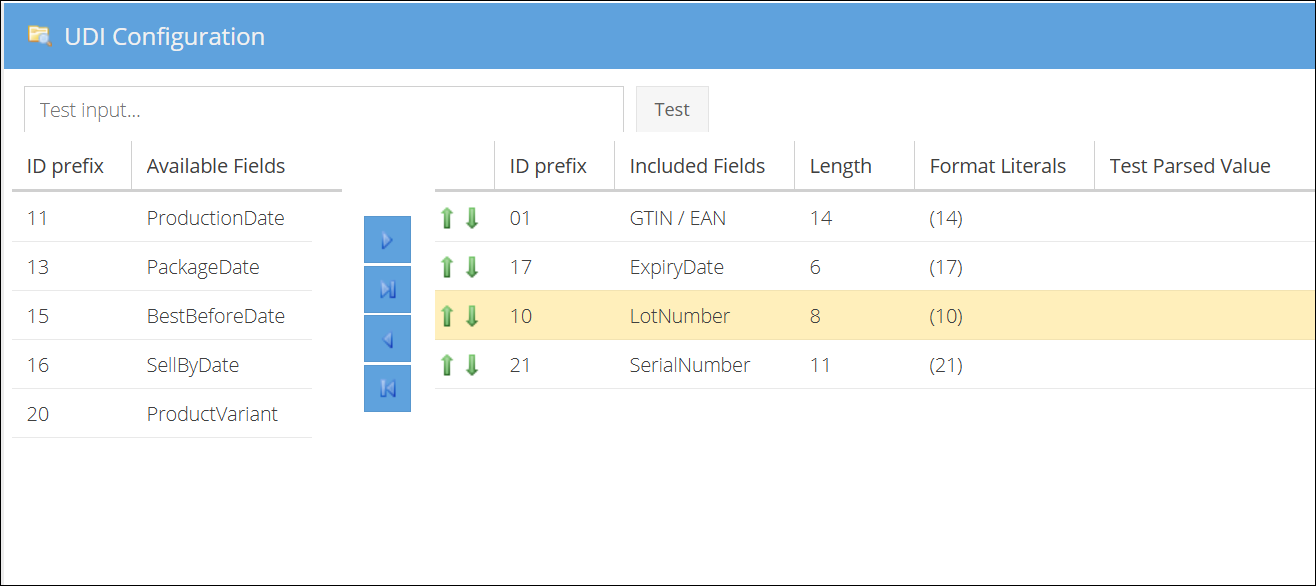
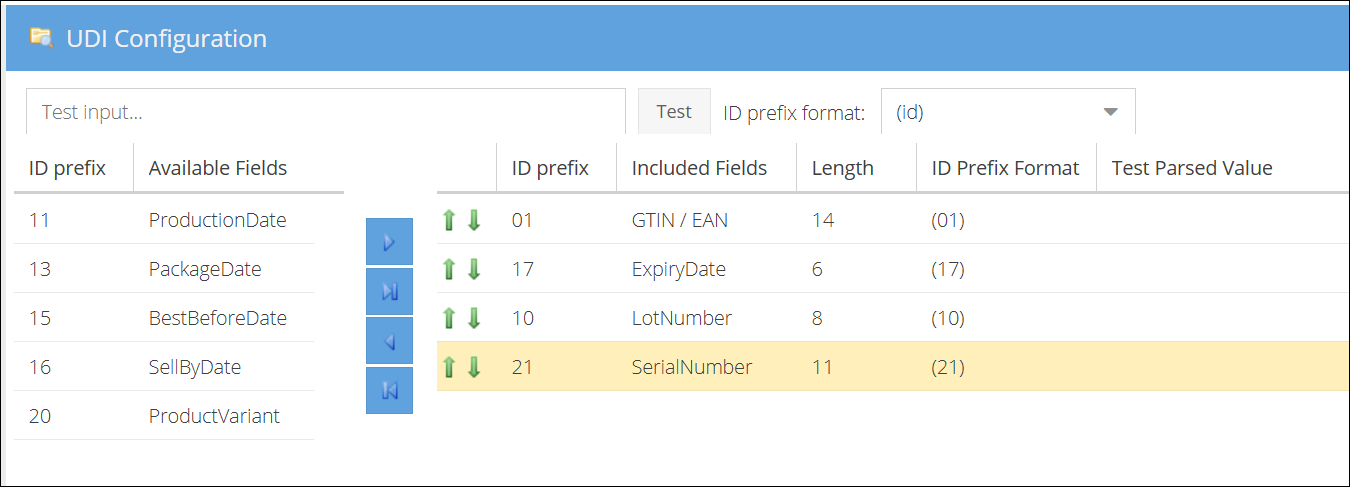
Purchase Price Import (with Tiers)

diff --git a/docs/User-Guide/09-Purchasing/Suppliers/new-way-import-supplier-prices.md b/docs/User-Guide/09-Purchasing/Suppliers/new-way-import-supplier-prices.md
@@ -1,76 +1,89 @@
 ---
 sidebar_position: 1
-slug: /docs/import-supplier-products
+slug: /docs/purchase-price-import-with-tiers
 ---
 
-# New easy way to Import Supplier Products 
+# Purchase Price Import (with Tiers)
 
-ShopCtrl added a new way to edit supplier purchase prices.
-It is done via excel product import. 
-The important difference is that it could be done for multiple products and suppliers at once.
-This type of import also supports update of tier-prices per supplier purchase prices.
+While ShopCtrl supports standard [product imports](import-supplier-products.md), this specific profile is designed for managing **Supplier Purchase Prices** and **Volume-Based Tier Pricing** in bulk.
 
-Profile could be created from the Product > Product export/import profiles.
+Unlike the more complex "Supplier Product Import," this method is designed for quick, manual price adjustments. 
 
-1. Log in as shopowner admin
-1. Go to Product > Product export/import profiles.
-1. Click Add to create new profile
-1. Select Profile type: Product Purchase Price
-1. Provide Profile name
-1. Select how many rows does the Header take - default 1.
-1. Select file Encoding
-1. Enter field separator - default `;`
-1. By default all of the properties are included. There are only few optional properties.
-1. You can rearrange the fields to match your desired order. 
-    - SupplierId
-    - Sku
-    - SupplierSku
-    - PriceExVat
-    - ForeignPriceExVat
-    - QtyAndAbove
-    - SupplierName (optional)
-    - ProductName (optional)
-1. Once finished - Save the profile.
+**Key Requirement:** To use this profile, your Excel file **must explicitly include the ShopCtrl Product Code (SKU)**. While the [advanced import](import-supplier-products.md) can match products using only the Supplier SKU, this simplified pricing import requires the internal ShopCtrl Product Code to ensure prices are mapped to the correct product record.
 
+## 1. Create an Import/Export Profile
 
+Profile could be created from the Product > Product export/import profiles. Profile can be used accross multiple suppliers.
 
-
-The important notice is that Supplier Id is a required field in this profile. Tier prices are specified with new rows for the same Supplier. 
-Leave the column QtyAndAbove empty if this is a regular price.
-
-Supplier quoted regular price at 15 
-above 10 qty - 14
-above 100 - 13.
-Those prices could be edited this way:
-SupplierId	Sku	SupplierSku	PriceExVat	ForeignPriceExVat	QtyAndAbove	SupplierName	ProductName	
-1235	AED-002	AED-002	15			Regular supplier	AED product 002 	
-1235	AED-002	AED-002	14		10	Regular supplier	AED product 002 	
-1235	AED-002	AED-002	13		100	Regular supplier	AED product 002 	
-
-It will look like this after import:
-pic.1
-
-Important! Only provide either PriceExVat or ForeignPriceExVat. The empty one is being calculated based on current exchange rates.
-Important! Make sure to include all tier-prices in the source file.
-The import deletes existing tier-prices for the provided Supplier & Product combination if QtyAndAbove is specified.
+1. Log in as a **Shopowner Admin**.
+2. Navigate to **Product Management > Product export/import profiles**.
+3. Click **Add** to create a new profile.
+4. Select Profile Type: **Product Purchase Price**.
+5. Enter a **Profile Name** (e.g., "Supplier Price Update").
+6. Configure the file settings:
+   - **Header rows**: Default is `1`.
+   - **Encoding**: Choose your file encoding (usually UTF-8).
+   - **Field Separator**: Default is `;`.
+1. By default all of the properties are included.
+    <img src={require("/img/product-purchase-price-import-profile.png").default} height="" width="800" />
+7. **Mapping Fields**: You can rearrange these fields to match your spreadsheet:
+   - `Sku` (Internal ShopCtrl SKU)
+   - `SupplierSku`
+   - `PriceExVat`
+   - `ForeignPriceExVat`
+   - `QtyAndAbove` (Use for tier pricing)
+   - `Priority`
+8. Click **Save**.
 
 
-You can use the same profile to export existing prices.
+## 2. Create file for import
 
-Go to Products. 
-On the Export tab select the profile you created for Purchase Prices 
-Select Export current page or Export All  
-(Exporting Selection with profiles is currently not supported.)
-File begins to be downloaded in the background. 
+The easiest way to start is by exporting your current data to use as a template.
 
-All the existing quoted Supplier purchase prices are downloaded in this profile.
+### How to Export Existing Prices
 
+1. Go to the **Products** menu.
+2. Open the **Export** tab and select your new **Purchase Prices** profile.
+3. Select **Export All** or apply filters first to export a specific subset. 
+   *(Note: "Export Selection" via checkboxes is not currently supported for this profile type).*
+4. The file will generate in the background.
 
+### Formatting Tier Prices
+To set up tier pricing (e.g., a lower price when buying in bulk), create a separate row for each quantity break:
 
-How to delete price quoted by a supplier?
-    quote 0 for the specific supplier id and ShopCtrl product code.
+| Sku(Product Code) | SupplierSku | PriceExVat | ForeignPriceExVat | QtyAndAbove | Note |
+| :--- | :--- | :--- | :--- | :--- | :--- |
+| 001A | 001A-ns | 15.00 | - |  | Regular price |
+| 001A | 001A-ns | 14.00 | - |  10 | Price for 10+ units |
+| 001A | 001A-ns | 13.00 | - | 100 | Price for 100+ units |
 
-How to create  purchase price for new supplier?
-    add new row, specifuy supplier id and provide price data
+Only provide either `PriceExVat` or `ForeignPriceExVat`. The empty field is calculated automatically based on current exchange rates.
+Always include the "Regular" price (where `QtyAndAbove` is empty) alongside your tier prices.
+
+## 3. Upload & Update Prices
+
+1. Go to **Product Management > Product Import**.
+2. Select your **Product Purchase Price** profile from the dropdown.
+3. **Select the Supplier** you are updating.
+4. Upload your file.
+
+    <img src={require("/img/product-purchase-price-import.png").default} height="" width="800" />
+
+:::warning[Please note]
+
+The import deletes existing prices & tier-prices for the provided Supplier if they are not included in the file.
+
+:::
+
+### Verifying Your Results
+
+Once the upload is finished, you can verify that the prices and tiers were applied correctly in three ways:
+
+1.  **Download Report:**  You can download the **Results Excel** file from here to see if any rows failed or to view a summary of the processed data.
+2.  **Product Export:** Use the same **Manual Price & Tier Update** profile to export the prices for that supplier again. This gives you a "clean" view of exactly what is currently stored in the system.
+3.  **Product View:** Open a specific product from the **Products** grid and check the **Suppliers** tab to see the updated price list and tier structure.
+
+    <img src={require("/img/purchase-product-import-result-excel.png").default} height="" width="800" />
+
 
 

diff --git a/docs/User-Guide/09-Purchasing/Purchase-orders/provisioning-with-udi-scan.md b/docs/User-Guide/09-Purchasing/Purchase-orders/provisioning-with-udi-scan.md
@@ -60,7 +60,7 @@ If the FullUdiString parameter is not defined, scanning itself still works, but 
     - For LOT Number, Serial Number and Product Variant: Specify the exact length (number of characters).
     - For Date fields: No length specification needed (standard format).
 1. **Configure Format Literals**:
-    - For fields that include literal characters in the barcode, enter these literals in the corresponding field.
+    - For fields that include literal characters in the barcode, select **ID prefix format** `(id)` from the top dropdown.
     - This supports various barcode standards including GS1 with different bracket styles.
 1. **Test Your Configuration**:
     - Use the Test input field at the top of the configuration page.
